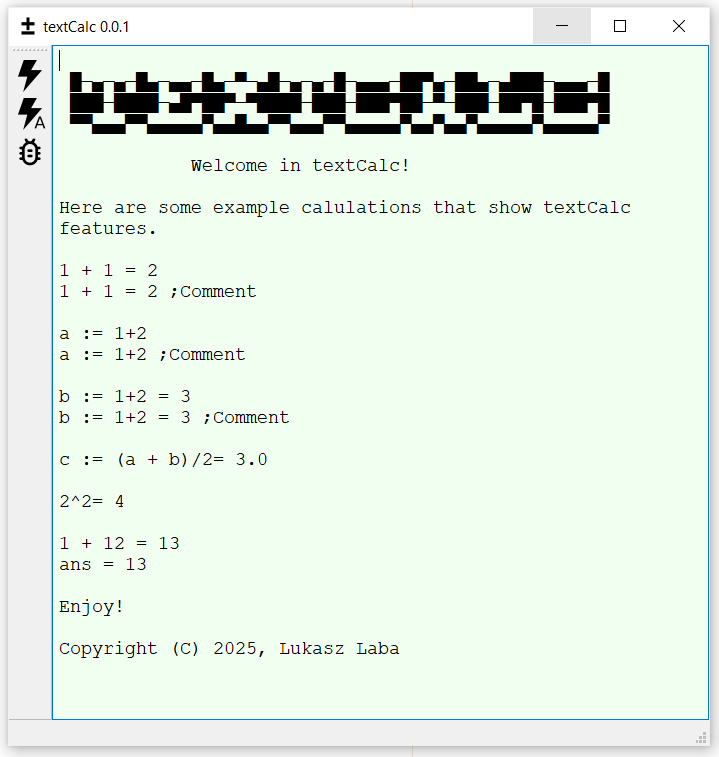
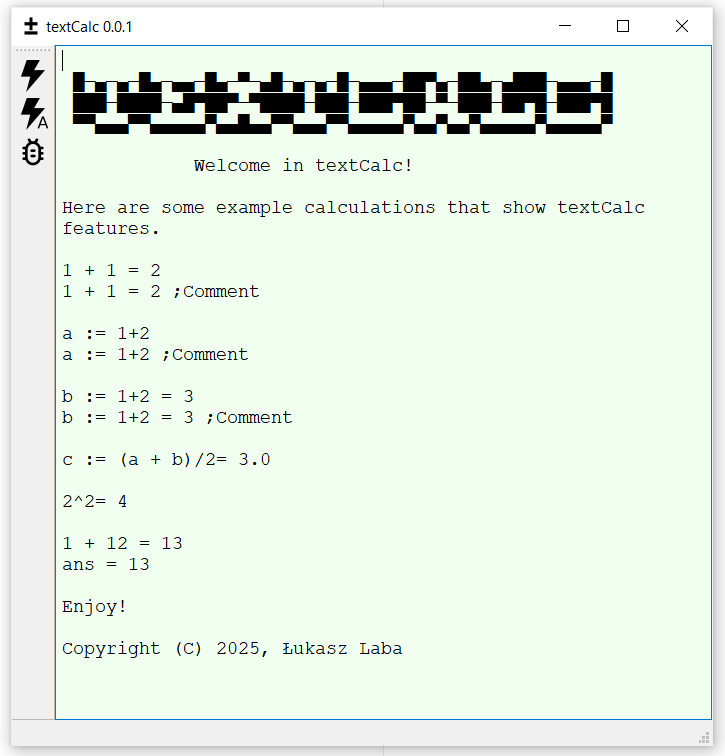
readme update

diff --git a/scr/pycore/start_ctext.py b/scr/pycore/start_ctext.py
@@ -5,7 +5,7 @@ ctext='''
 
             Welcome in textCalc!
 
-Here are some example calulations that show textCalc features.
+Here are some example calculations that show textCalc features.
 
 1 + 1 = 2
 1 + 1 = 2 ;Comment
@@ -25,5 +25,5 @@ ans = 13
 
 Enjoy!
 
-Copyright (C) 2025, Lukasz Laba
+Copyright (C) 2025, Łukasz Laba
 '''
